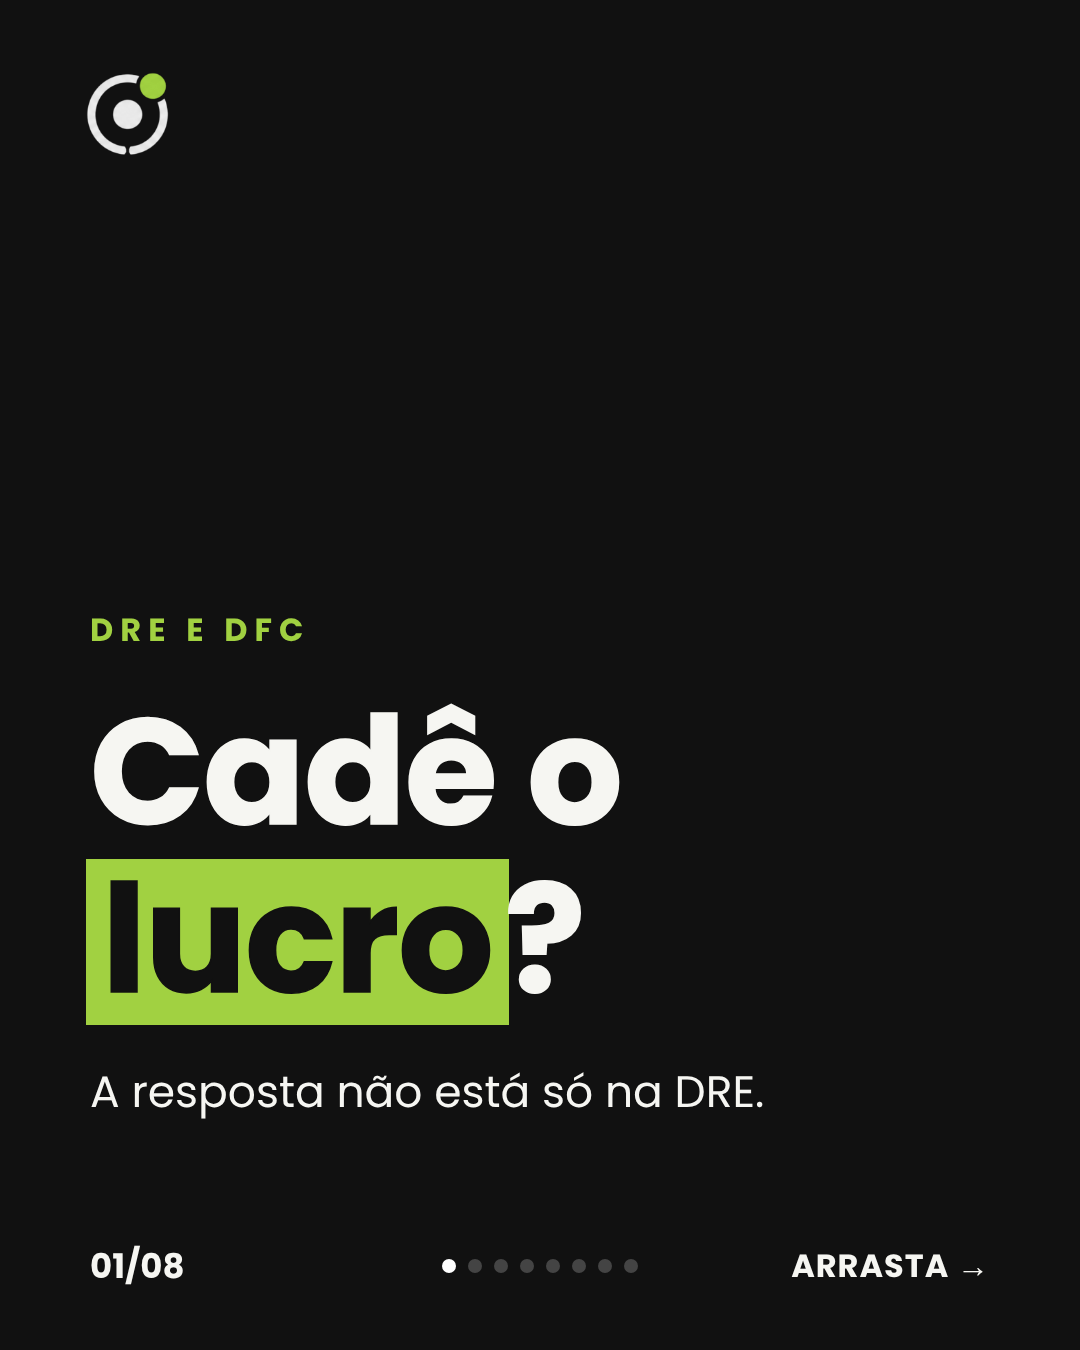
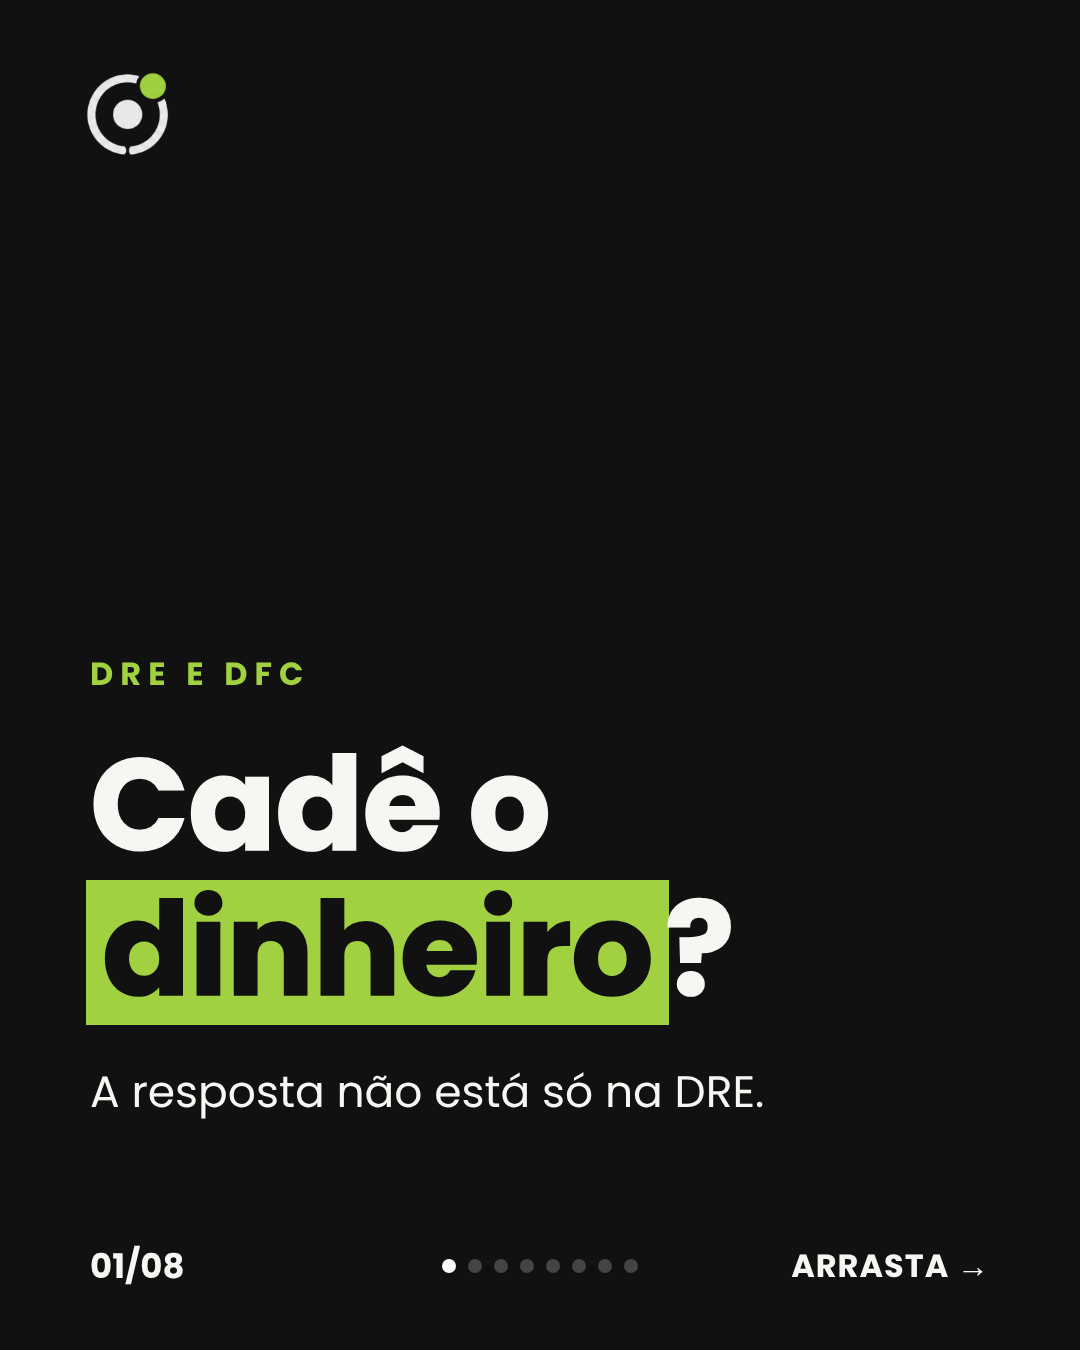
Post 21: Cadê o dinheiro?
Claude-Session: https://claude.ai/code/session_01HZuUUsk1eeexsexkvA6pTE

Changed region(s): [[0.0611, 0.4356, 0.6722, 0.7778]]

diff --git a/marca/gerador-semana-16-20-11.py b/marca/gerador-semana-16-20-11.py
@@ -175,12 +175,12 @@ POSTS = {
   dict(type='cta', t='dark', kick='Envie', title='Envie para um colega que vai assumir pagamentos de cliente.', fs=62),
  ],
  'post-21-cade-o-lucro': [
-  dict(type='cover', t='dark', kick='DRE e DFC', title='Cadê o <mark>lucro</mark>?', fs=150, sub='A resposta não está só na DRE.'),
+  dict(type='cover', t='dark', kick='DRE e DFC', title='Cadê o <mark>dinheiro</mark>?', fs=130, sub='A resposta não está só na DRE.'),
   dict(type='stake', t='light', kick='Por que importa', text='DRE e DFC respondem perguntas diferentes. Quem entrega só uma deixa o cliente sem a outra metade.'),
   dict(type='text', t='light', kick='DRE', title='Teve resultado?', body='Receitas, custos e despesas do período.'),
   dict(type='text', t='light', kick='DFC', title='Para onde foi o caixa?', body='O que entrou e saiu de dinheiro no período.'),
   dict(type='flow', t='light', kick='Venda a prazo', a=('OUTUBRO','Vendeu','A DRE mostra o resultado.'), b=('DEZEMBRO','Recebeu','A DFC mostra o caixa.'), foot='O resultado aparece antes do dinheiro.'),
-  dict(type='text', t='light', kick='Juntos', title='Os dois contam a história', body='Resultado e caixa juntos explicam o lucro que não aparece na conta.'),
+  dict(type='text', t='light', kick='Juntos', title='Os dois contam a história', body='Resultado e caixa juntos explicam o lucro que não virou dinheiro na conta.'),
   dict(type='recap', t='green', kick='Resumo', title='Com o cliente:', items=['DRE: teve resultado?', 'DFC: para onde foi o caixa?', 'Os dois, juntos'], fs=52),
   dict(type='cta', t='dark', kick='Salve', title='Salve para explicar ao seu cliente.'),
  ],
